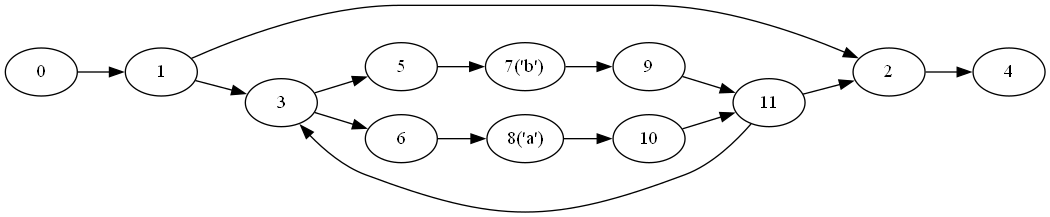
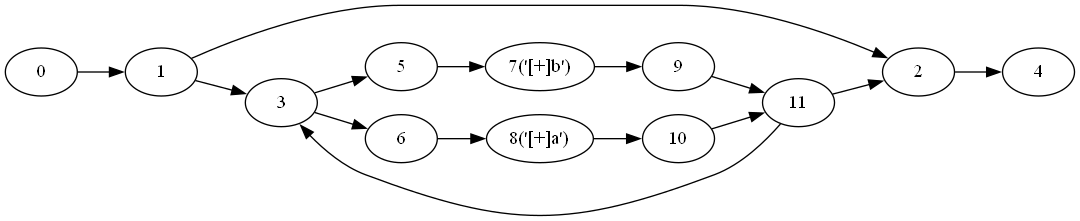
dot

diff --git a/NRegEx/Utils.cs b/NRegEx/Utils.cs
@@ -32,34 +32,68 @@ public static class Utils
 
     private const string METACHARACTERS = @"\.+*?()|[]{}^$";
 
+
+    public static string EscapeString(string s, bool doubleSlash = false)
+    {
+        var builder = new StringBuilder();
+        foreach(var c in StringToRunes(s))
+        {
+            EscapeRune(c, builder,doubleSlash);
+        }
+        return builder.ToString();
+    }
     // Appends a RE2 literal to |out| for rune |rune|,
     // with regexp metacharacters escaped.
-    public static void EscapeRune(StringBuilder result, int rune)
+    public static StringBuilder EscapeRune(int rune, StringBuilder? builder = null, bool doubleSlash=false)
     {
+        builder ??= new();
+        var slashes = doubleSlash ? "\\\\" : "\\";
+
         if (Unicode.IsPrint(rune))
         {
             var r = new Rune(rune);
             var m = METACHARACTERS.EnumerateRunes().ToList();
             if (m.IndexOf(r) >= 0)
-                result.Append('\\');
-            result.Append(r.ToString());
-            return;
+                builder.Append(slashes);
+            builder.Append(r.ToString());
+            return builder;
         }
-
-        result.Append(rune switch
+        if (doubleSlash)
         {
-            '"' => ("\\\""),
-            '\\' => ("\\\\"),
-            '\t' => ("\\t"),
-            '\n' => ("\\n"),
-            '\r' => ("\\r"),
-            '\b' => ("\\b"),
-            '\f' => ("\\f"),
-            _ => (rune < 0x100
-                  ? (@"\x" + (string.Format("{0:x}", rune) is string t && t.Length == 1 ? "0" : "") 
-                            + string.Format("{0:x}", rune))
-                  : (@"\x{" + string.Format("{0:x}", rune) + "}")),
-        });
+            builder.Append(rune switch
+            {
+                '"' => ("\\\\\""),
+                '\\' => ("\\\\\\\\"),
+                '\t' => ("\\\\t"),
+                '\n' => ("\\\\n"),
+                '\r' => ("\\\\r"),
+                '\b' => ("\\\\b"),
+                '\f' => ("\\\\f"),
+                _ => (rune < 0x100
+                      ? (@"\\x" + (string.Format("{0:x}", rune) is string t && t.Length == 1 ? "0" : "")
+                                + string.Format("{0:x}", rune))
+                      : (@"\\x{" + string.Format("{0:x}", rune) + "}")),
+            });
+        }
+        else
+        {
+            builder.Append(rune switch
+            {
+                '"' => ("\\\""),
+                '\\' => ("\\\\"),
+                '\t' => ("\\t"),
+                '\n' => ("\\n"),
+                '\r' => ("\\r"),
+                '\b' => ("\\b"),
+                '\f' => ("\\f"),
+                _ => (rune < 0x100
+                      ? (@"\x" + (string.Format("{0:x}", rune) is string t && t.Length == 1 ? "0" : "")
+                                + string.Format("{0:x}", rune))
+                      : (@"\x{" + string.Format("{0:x}", rune) + "}")),
+            });
+
+        }
+        return builder;
     }
 
     // Returns the array of runes in the specified Java UTF-16 string.

diff --git a/NRegEx/Graph.cs b/NRegEx/Graph.cs
@@ -86,7 +86,7 @@ public record class Graph
             this.Nodes.UnionWith(graphs[^1].Nodes);
             this.Edges.UnionWith(graphs[0].Edges);
             this.Edges.UnionWith(graphs[^1].Edges);
-            this.Edges.Add(new Edge(graphs[0].Tail, graphs[^1].Head));
+            this.Edges.Add(new (graphs[0].Tail, graphs[^1].Head));
         }
         else
         {
@@ -107,8 +107,8 @@ public record class Graph
                 var after = graphs[i + 1];
                 this.Nodes.UnionWith(current.Nodes);
                 this.Edges.UnionWith(current.Edges);
-                this.Edges.Add(new Edge(before.Tail, current.Head));
-                this.Edges.Add(new Edge(current.Tail, after.Head));
+                this.Edges.Add(new (before.Tail, current.Head));
+                this.Edges.Add(new (current.Tail, after.Head));
             }
         }
         return this;
@@ -129,11 +129,10 @@ public record class Graph
     {
         for (int i = 0; i < nodes.Count; i++)
         {
-            var n = nodes[i];
-            this.Head.Outputs.Add(n);
-            n.Inputs.Add(this.Head);
-            n.Outputs.Add(this.Tail);
-            this.Tail.Inputs.Add(n);
+            var node = nodes[i];
+            this.Nodes.Add(node);
+            this.Edges.Add(new Edge(this.Head, node));
+            this.Edges.Add(new Edge(node, this.Tail));
         }
         return this;
     }

diff --git a/NRegex.Test/BasicUnitTests.cs b/NRegex.Test/BasicUnitTests.cs
@@ -188,11 +188,31 @@ public class BasicUnitTests
     [TestMethod]
     public void TestMethod10()
     {
-
+        var regexString0 = ".";
+        var regex0 = new Regex(regexString0);
+        ExportAsDot(regex0);
+        Assert.IsTrue(regex0.IsMatch("a"));
+        Assert.IsFalse(regex0.IsMatch("ab"));
+        Assert.IsFalse(regex0.IsMatch(""));
     }
     [TestMethod]
     public void TestMethod11()
     {
+        var regexString0 = ".*";
+        var regex0 = new Regex(regexString0);
+        ExportAsDot(regex0);
+        Assert.IsTrue(regex0.IsMatch(""));
+        Assert.IsTrue(regex0.IsMatch("abcdef"));
+
+    }
+    [TestMethod]
+    public void TestMethod12()
+    {
+        var regexString0 = ".+";
+        var regex0 = new Regex(regexString0);
+        ExportAsDot(regex0);
+        Assert.IsFalse(regex0.IsMatch(""));
+        Assert.IsTrue(regex0.IsMatch("abcdef"));
 
     }
 }

diff --git a/NRegEx/Node.cs b/NRegEx/Node.cs
@@ -69,7 +69,10 @@ public class Node
             this.Inverted = inverted;
             this.CharSet = new BitArray(chars.Max(m => m) + 1);
             foreach (var c in chars) this.CharSet[c] = true;
-            this.Name = "'" + string.Join(",", chars.Select(c => new Rune(c >= 0 ? c : ' ').ToString()).ToArray()) + "'";
+            var ts = chars.Select(c => new Rune(c >= 0 ? c : ' ').ToString());
+            var tt = string.Join(",", ts.ToArray());
+            var st = Utils.EscapeString(tt, true).PadRight(16)[..16].TrimEnd();
+            this.Name = $"'[{(this.Inverted ? '-' : '+')}]" + st + "'";
         }
         else 
         {
